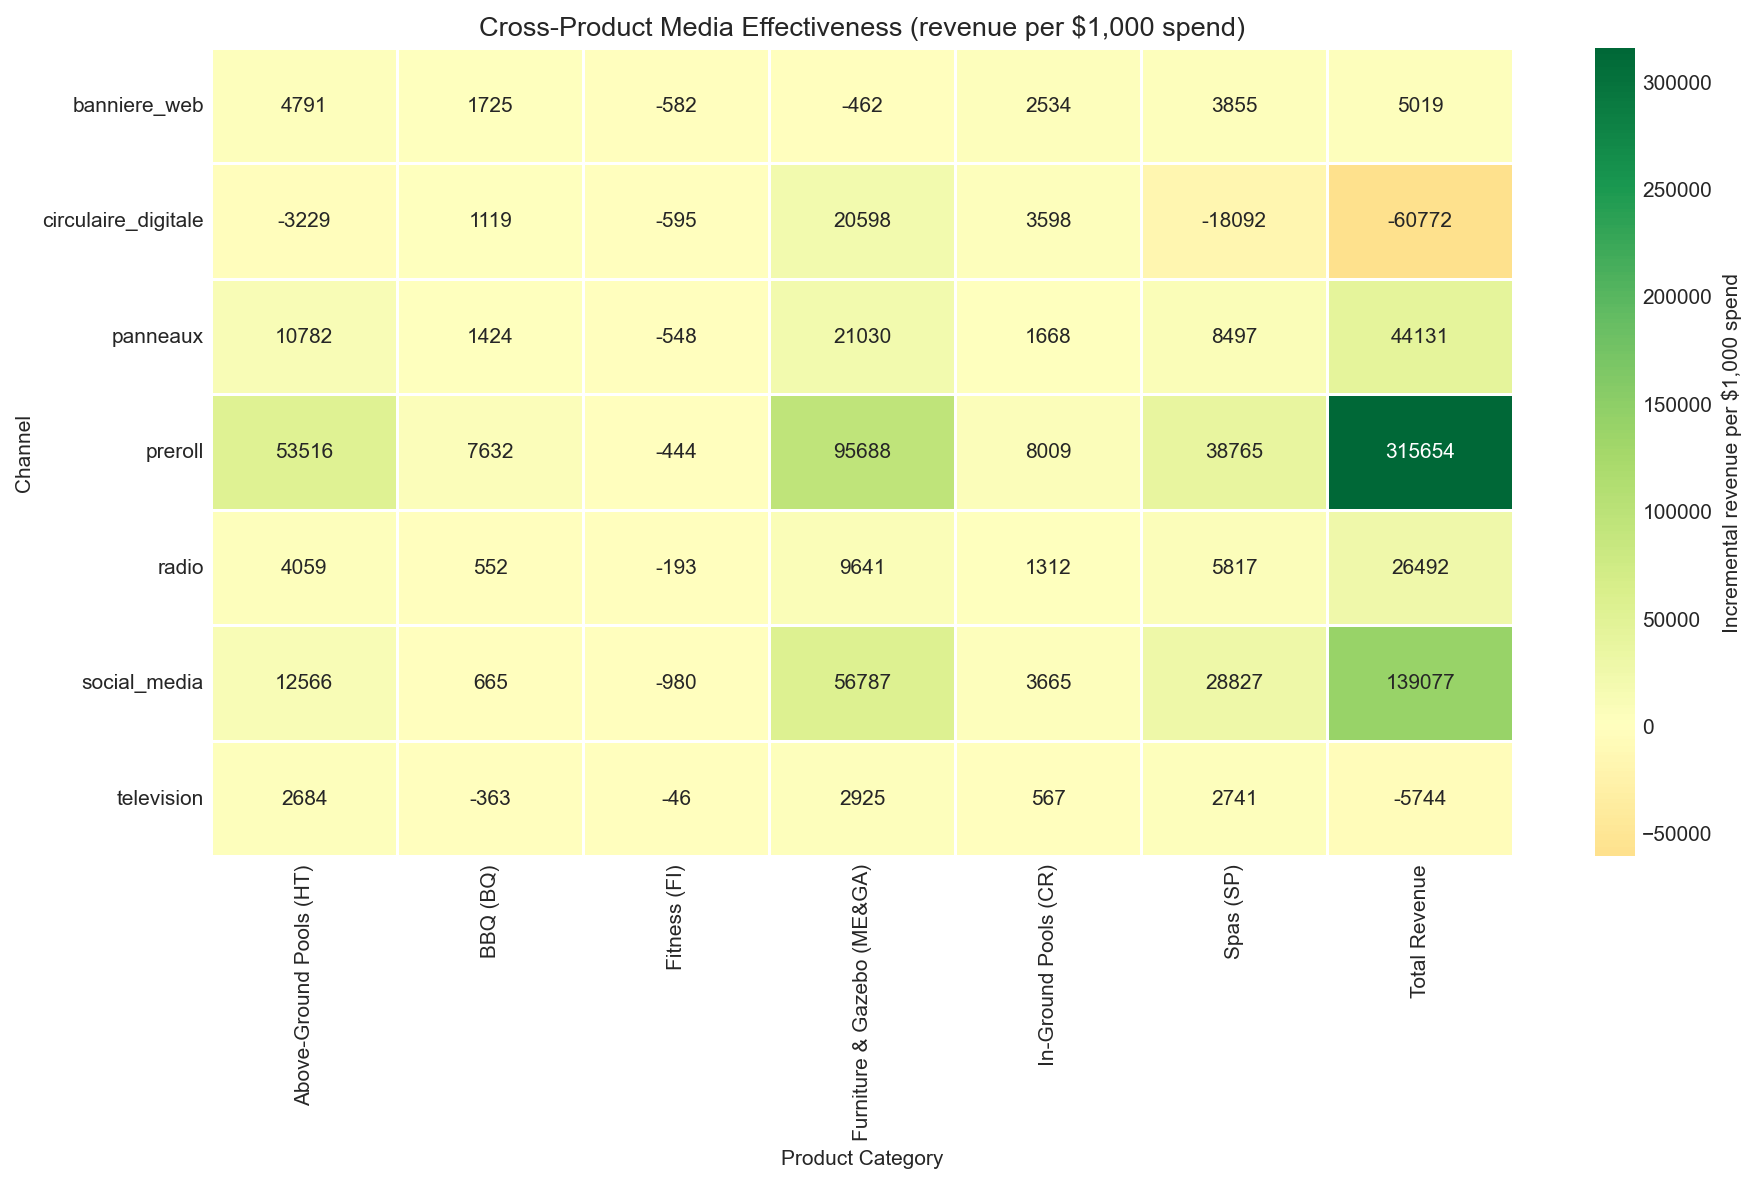
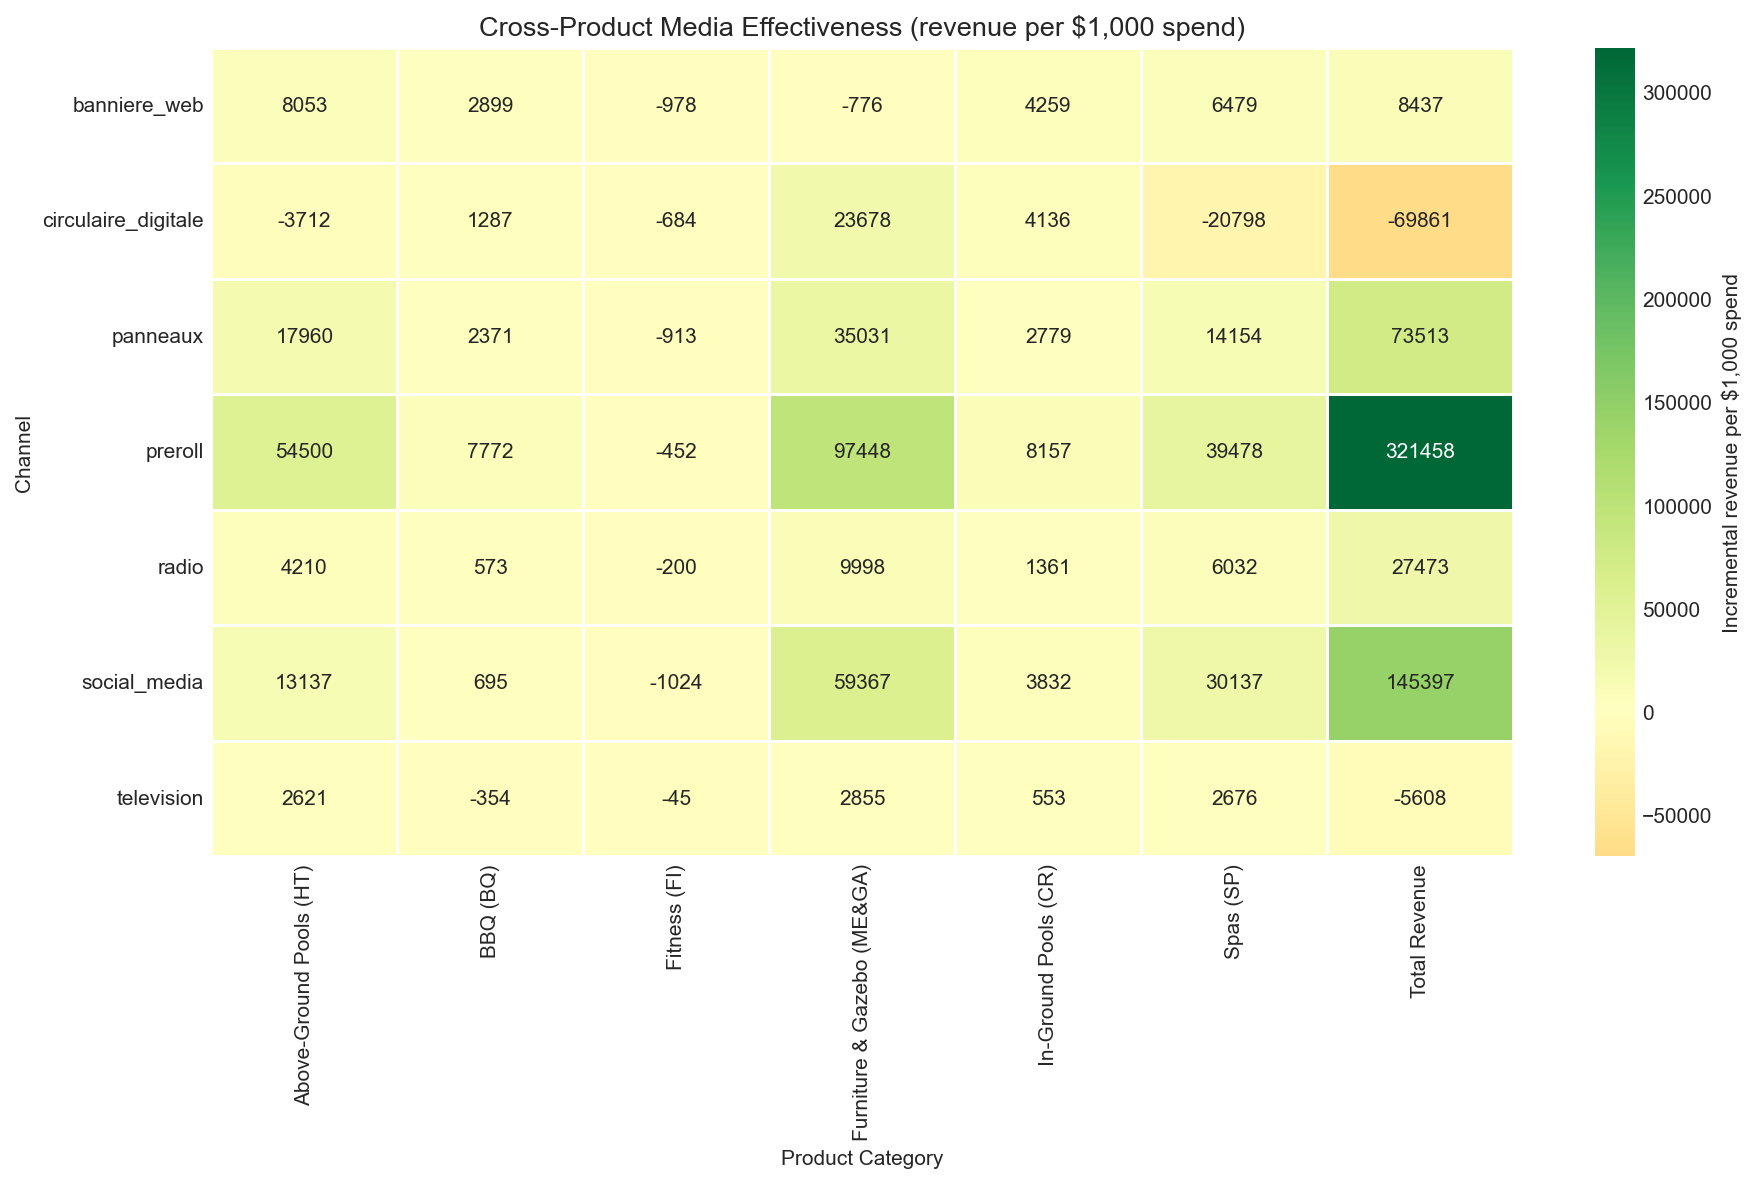
minimal chnages to notebook 05

diff --git a/reports/causal_identification_report.md b/reports/causal_identification_report.md
@@ -1,6 +1,6 @@
 # Feature Engineering & Parameter Calibration Report
 
-Generated: 2026-02-09 19:24:13.612576
+Generated: 2026-02-10 12:18:27.722165
 
 36 monthly observations, 7 channels, target: total_all_revenue
 
